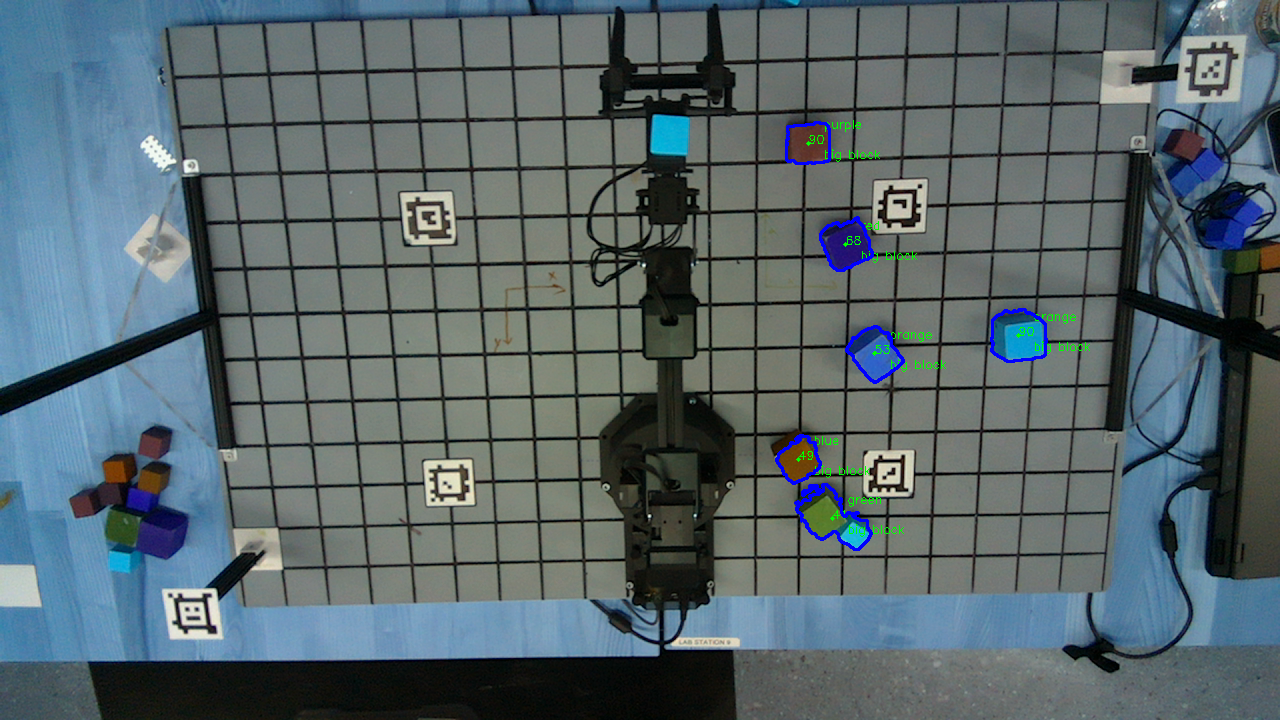
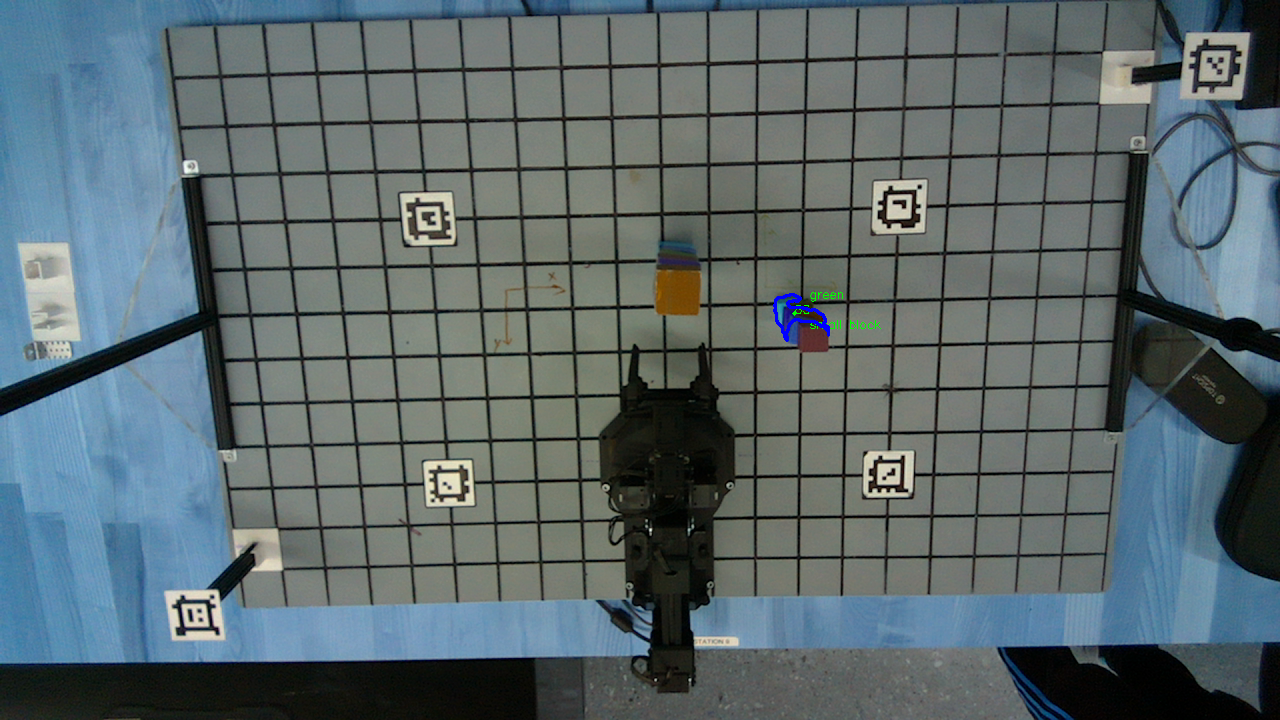
task2 task3 level2 complete

diff --git a/src/state_machine.py b/src/state_machine.py
@@ -904,6 +904,10 @@ class StateMachine():
             # print("T_DH is: ",T_DH)
             pos = self.compute_ee_world_pos()
 
+        self.rxarm.arm.go_to_sleep_pose(moving_time = 1.5,
+                              accel_time=0.5,
+                              blocking=True)
+
         if can_reach2:
             print("move to point2")
             # joint_angles2 = kinematics.Joint_Pos_Compensation(joint_angles2)
@@ -981,20 +985,27 @@ class StateMachine():
 
 
     # Event 1:Pick'n sort!
-    def pick_n_sort(self):
-        self.current_state = "pick_n_sort"
-        self.next_state = "idle"
-        print("##################### Pick 'n sort Start #####################")
+    def pick_n_sort(self,istask3 = False):
+        if not istask3:
+            self.current_state = "pick_n_sort"
+            self.next_state = "idle"
+            print("##################### Pick 'n sort Start #####################")
                
         block_number_counter = 1
         small_counter,big_counter = 0,0
-        small_x , big_x = -150,150
+        small_x , big_x = -160,160
         small_y,big_y = -100,-100
+
+        if istask3:
+            block_offset = 80
+        else:
+            block_offset = 70
 
         # 1st time deal with 2 floor blocks, 2nd time deal with general blocks
         while True:
             # Detect blocks in the plane
             self.camera.blocks = detectBlocksInRGBImage(self.camera.VideoFrame.copy(), self.camera.DepthFrameRaw,boundary=self.camera.boundary)
+            time.sleep(1)
 
             while self.camera.blocks == None:
                 print("There is no blocks in the workspace!!")
@@ -1038,12 +1049,14 @@ class StateMachine():
 
                                 self.auto_pick(target_pos=block_center,block_ori = block_orientation,isbig=False)
                                 time.sleep(0.2)
-                            
-                                if small_counter % 2 ==0:
-                                    small_y = -100
+
+                                 # compute the place position             
+                                if small_counter % 2 == 0:
+                                        small_y = -100
+                                        if small_counter != 0:
+                                            small_x -= block_offset
                                 else:
-                                    small_x -= 60
-                                    small_y = -60
+                                    small_y = -100 + block_offset
 
                                 self.auto_place(target_pos=[small_x,small_y,0],target_orientation = 0,isbig=False,save_time=True)
                                 small_counter += 1
@@ -1055,19 +1068,14 @@ class StateMachine():
                                 
                                 self.auto_pick(target_pos=block_center,block_ori = block_orientation,isbig=True)
                                 time.sleep(0.2)
-                                # self.initialize_rxarm(task=True)
-
-                                # if do_initialization:
-                                #     self.initialize_rxarm(task=True)
-                                #     time.sleep(0.2)
-                                #     print("Reach Middle Point")
 
                                 # compute the place position
-                                if big_counter % 2 ==0:
+                                if big_counter % 2 == 0:
                                     big_y = -100
+                                    if big_counter !=0:
+                                        big_x += block_offset
                                 else:
-                                    big_x += 60
-                                    big_y = -60
+                                    big_y = -100 + block_offset
 
                                 self.auto_place(target_pos=[big_x,big_y,0],target_orientation = 0,isbig = True,save_time=True)
                                 big_counter +=1
@@ -1081,80 +1089,116 @@ class StateMachine():
                     print("This is April Tag!")
             self.initialize_rxarm()
             time.sleep(0.5)
+            self.rxarm.arm.go_to_sleep_pose(moving_time = 1.5,
+                              accel_time=0.5,
+                              blocking=True)
         print("##################### Pick 'n sort finished #####################")    
-
 
 
     # Event 2:Pick'n stack!
     def pick_n_stack(self):
         self.current_state = "pick_n_stack"
         self.next_state = "idle"
-        # Detect blocks in the plane
-        self.camera.blocks = detectBlocksInRGBImage(self.camera.VideoFrame.copy(), self.camera.DepthFrameRaw,boundary=self.camera.boundary)
+        print("##################### Pick 'n stack Start #####################")
+               
+        block_number_counter = 1
+        small_counter,big_counter = 0,0
+        small_x , big_x = -150,150
+        small_y,big_y = -100,-100
+        small_z,big_z = 0,0
 
-        while self.camera.blocks == None:
-            print("There is no blocks in the workspace!!")
+        # 1st time deal with 2 floor blocks, 2nd time deal with general blocks
+        while True:
+            # Detect blocks in the plane
+            self.camera.blocks = detectBlocksInRGBImage(self.camera.VideoFrame.copy(), self.camera.DepthFrameRaw,boundary=self.camera.boundary)
             time.sleep(1)
 
-        # Initialize place positions - z coordinates
-        small_z , big_z = 0,0
-        for block in self.camera.blocks:
-            block_center, block_orientation = self.camera.transformFromImageToWorldFrame((block.center[1], block.center[0])),block.orientation 
-           
-            # if block is far, initialize it
-            do_initialization = False
-            xy_distance = np.sqrt(np.square(block_center[0])+np.square(block_center[1]))
-            print("Block distance to origin is: ",xy_distance)
-            if xy_distance > 320:
-                do_initialization = True
+            while self.camera.blocks == None:
+                print("There is no blocks in the workspace!!")
+                time.sleep(1)
+            
+            all_block_in_neg_plane = True
+            for block in self.camera.blocks:
+                block_center, block_orientation = self.camera.transformFromImageToWorldFrame((block.center[1], block.center[0])),block.orientation 
+                if block_center[1] > 0:
+                    all_block_in_neg_plane = False
+            if all_block_in_neg_plane:
+                break
 
-            # Filter out possible mis-ditection
-            if block_center[2] < 100: 
-                # print(block_center)
-                if block_center [1] >= 0: 
-                    # Stack small blocks on the Apriltag in the left negative plane
-                    if block.side <= 25:
-                        print("=========== Small")
-                        print(block_center)
-                        print("=================")
+            # Initialize place positions - x coordinates           
+            self.initialize_rxarm()
+            time.sleep(2)
+
+            for block in self.camera.blocks:
+                block_center, block_orientation = self.camera.transformFromImageToWorldFrame((block.center[1], block.center[0])),block.orientation 
+                
+                # print(block_center,block.side)
+                if block_center[2] < 150: 
+                    print("--------------------- start a block:No.",block_number_counter,"---------------------------")
+                    print("block_depth", block_center[2])
+
+                    # Move small blocks in right plane to left planet
+                    if block_center[2] > 65:
+                        # if it's stack 2 high, place the top one first
+                        print("=========== Stack Two ",block_center," =============")
                         self.auto_pick(target_pos=block_center,block_ori = block_orientation,isbig=False)
                         time.sleep(0.2)
-                        self.initialize_rxarm(task=True)
-                        # if do_initialization:
-                        #     self.initialize_rxarm(task=True)
-                        #     time.sleep(0.2)
-                        #     print("Reach Middle Point")
+                        current_position = self.compute_ee_world_pos()
+                        self.auto_change_position(current_pos=current_position)
+                        print("=========== Stack Two Comptele =============")
+                    
+                    else:
+                        # if it's stack 1 high, pick and place normally
+                        if block.side <= 25:
+                            if block_center[0] >= 0 or block_center[1] >= 0:
+                                print("=========== Small ",block_center," =============")
 
-                        self.auto_place(target_pos=[-250,-25,small_z],target_orientation = 0,isbig=False)
-                        small_z += 20
-                    # Stack big blocks on the Apriltag in the right negative plane
-                    elif block.side >= 35:
-                        print("+++++++++++ Big")
-                        print(block_center)
-                        print("+++++++++++++++")
-                        self.auto_pick(target_pos=block_center,block_ori = block_orientation,isbig=True)
-                        time.sleep(0.2)
-                        self.initialize_rxarm(task=True)
+                                self.auto_pick(target_pos=block_center,block_ori = block_orientation,isbig=False)
+                                time.sleep(0.2)
 
-                        # if do_initialization:
-                        #     self.initialize_rxarm(task=True)
-                        #     time.sleep(0.2)
-                        #     print("Reach Middle Point")
+                                self.auto_place(target_pos=[small_x,small_y,small_z],target_orientation = 0,isbig=False,save_time=True)
+                                small_counter += 1
+                                block_number_counter += 1
+                                small_z += 20
+                        # Move big blocks in left plane to right plane
+                        elif block.side >= 35:
+                            if block_center[0] <= 0 or block_center[1] >= 0:
+                                print("=========== Big ",block_center," =============")
+                                
+                                self.auto_pick(target_pos=block_center,block_ori = block_orientation,isbig=True)
+                                time.sleep(0.2)
 
-                        self.auto_place(target_pos=[250,25,big_z],target_orientation = 0,isbig=True)
-                        big_z += 38
-                self.initialize_rxarm()
-                time.sleep(2)
-            else:
-                print("This is April Tag!")
-        print("Pick'n stack finished")
-        pass
+                                self.auto_place(target_pos=[big_x,big_y,big_z],target_orientation = 0,isbig = True,save_time=True)
+                                big_counter +=1
+                                block_number_counter += 1
+                                big_z += 38
+                    time.sleep(0.2)
+                    # self.initialize_rxarm()
+                    # time.sleep(0.5)
+                    print("--------------------- end a block ---------------------------")
+                    # self.safe_pos()
+                else:
+                    print("This is April Tag!")
+            self.initialize_rxarm()
+            time.sleep(0.5)
+            self.rxarm.arm.go_to_sleep_pose(moving_time = 1.5,
+                              accel_time=0.5,
+                              blocking=True)
+        print("##################### Pick 'n sort finished #####################")  
 
 
     # Event 3:Line 'em up!
     def line_em_up(self):
+        """!
+        @brief      task3
+        """
         self.current_state = "line_em_up"
         self.next_state = "idle"
+        print("##################### Line 'em up Start #####################")
+
+        self.pick_n_sort(istask3=True)
+        print("----------------------Clear Stage Complete")
+
         # Detect blocks in the plane
         self.camera.blocks = detectBlocksInRGBImage(self.camera.VideoFrame.copy(), self.camera.DepthFrameRaw,boundary=self.camera.boundary)
 
@@ -1169,44 +1213,49 @@ class StateMachine():
         blocks = self.camera.blocks
         sorted_blocks = sorted(blocks, key=lambda x: color_order.get(x.color, len(color_order)))
 
-        small_x , big_x = -400, 150
+        small_x, big_x = -150, -150
+        small_y, big_y = 200, 275
+        block_counter,small_block_counter,big_block_counter = 1,1,1
         for block in sorted_blocks:
             block_center, block_orientation = self.camera.transformFromImageToWorldFrame((block.center[1], block.center[0])),block.orientation 
-            # print("00000000000000000000000000000")
-            # print(block_center,block.side)
-            # print("00000000000000000000000000000")
 
             # Filter out possible mis-ditection
-            if block_center[2] < 50: 
+            if block_center[2] < 60: 
                 # print(block_center)
-                # Assume all non-sorted blocks are in the positive plane:
-                if block_center [1] >= 0: 
-                    # Line small blocks in color order in the left negative plane
-                    if block.side <= 25:
-                        print("=========== Small")
-                        print(block_center,block.color)
-                        print("=================")
-                        self.auto_pick(target_pos=block_center,block_ori = block_orientation)
-                        self.auto_place(target_pos=[small_x,-125,5],target_orientation = 0)
-                        small_x += 50
-                    # Line big blocks in color order in the right negative plane
-                    elif block.side >= 35:
-                        print("+++++++++++ Big")
-                        print(block_center,block.color)
-                        print("+++++++++++++++")
-                        self.auto_pick(target_pos=block_center,block_ori = block_orientation)
-                        self.auto_place(target_pos=[big_x,-125,5],target_orientation = 0)
-                        big_x += 50
-            self.initialize_rxarm()
-            time.sleep(2)
+                # Assume all non-sorted blocks are in the positive plane:    
+                print("--------------------- start a block:No.",block_counter,"---------------------------")
+                # Line small blocks in color order in the left negative plane
+                if block.side <= 25:
+                    print("================ Small Block No.",small_block_counter," ",
+                          block.color,"=========================")
+                    self.auto_pick(target_pos=block_center,block_ori = block_orientation)
+                    self.auto_place(target_pos=[small_x,small_y,5],target_orientation = 0)
+                    small_x += 50
+                    small_block_counter += 1
+                # Line big blocks in color order in the right negative plane
+                elif block.side >= 35:
+                    print("================ Big Block No.",big_block_counter," ",
+                          block.color,"=========================")
+                    self.auto_pick(target_pos=block_center,block_ori = block_orientation)
+                    self.auto_place(target_pos=[big_x,big_y,5],target_orientation = 0)
+                    big_x += 50
+                    big_block_counter += 1
+            print("--------------------- start a block:No.",block_counter,"---------------------------")
+            time.sleep(0.2)
 
-        print("Line 'em up finished")
+        self.initialize_rxarm()
+        time.sleep(0.5)
+        self.rxarm.arm.go_to_sleep_pose(moving_time = 1.5,
+                            accel_time=0.5,
+                            blocking=True)
+        print("##################### Line 'em up Complete #####################")
         pass
 
     # Event 4:Stack 'em high!
     def stack_em_high(self):
         self.current_state = "stack_em_high"
         self.next_state = "idle"
+        print("##################### Stack 'em high Start #####################")
         # Detect blocks in the plane
         self.camera.blocks = detectBlocksInRGBImage(self.camera.VideoFrame.copy(), self.camera.DepthFrameRaw,boundary=self.camera.boundary)
 
@@ -1221,7 +1270,8 @@ class StateMachine():
         blocks = self.camera.blocks
         sorted_blocks = sorted(blocks, key=lambda x: color_order.get(x.color, len(color_order)))
 
-        small_z, big_z = 0
+        small_z, big_z = 0, 0
+        block_counter,small_block_counter,big_block_counter = 1,1,1
         for block in sorted_blocks:
             block_center, block_orientation = self.camera.transformFromImageToWorldFrame((block.center[1], block.center[0])),block.orientation 
             # print("00000000000000000000000000000")
@@ -1234,23 +1284,26 @@ class StateMachine():
                 if block_center [1] >= 0: 
                     # Line small blocks in color order in the left negative plane
                     if block.side <= 25:
-                        print("=========== Small")
-                        print(block_center,block.color)
-                        print("=================")
+                        print("================ Small Block No.",small_block_counter," ",
+                          block.color,"=========================")
                         self.auto_pick(target_pos=block_center,block_ori = block_orientation)
-                        self.auto_place(target_pos=[250,-125,small_z],target_orientation = 0)
+                        self.auto_place(target_pos=[-250,-125,small_z],target_orientation = 0)
                         small_z += 38
                     # Line big blocks in color order in the right negative plane
                     elif block.side >= 35:
-                        print("+++++++++++ Big")
-                        print(block_center,block.color)
-                        print("+++++++++++++++")
+                        print("================ Big Block No.",big_block_counter," ",
+                          block.color,"=========================")
                         self.auto_pick(target_pos=block_center,block_ori = block_orientation)
                         self.auto_place(target_pos=[250,-125,big_z],target_orientation = 0)
                         big_z += 38
             
-            time.sleep(2)
-        print("Stack 'em high finished")
+            time.sleep(1)
+        self.initialize_rxarm()
+        time.sleep(0.5)
+        self.rxarm.arm.go_to_sleep_pose(moving_time = 1.5,
+                            accel_time=0.5,
+                            blocking=True)
+        print("##################### Stack 'em high Complete #####################")
         pass
     
     # Event 5:To the sky!
@@ -1271,8 +1324,14 @@ class StateMachine():
             self.auto_place(target_pos=[250,175,big_z],target_orientation = 0)
             big_z += 38
             self.initialize_rxarm()
-            time.sleep(2)
-        print("To the sky finished")
+            time.sleep(1)
+
+        self.initialize_rxarm()
+        time.sleep(0.5)
+        self.rxarm.arm.go_to_sleep_pose(moving_time = 1.5,
+                            accel_time=0.5,
+                            blocking=True)
+        print("##################### To the sky finished Complete #####################")
         pass
 
 
